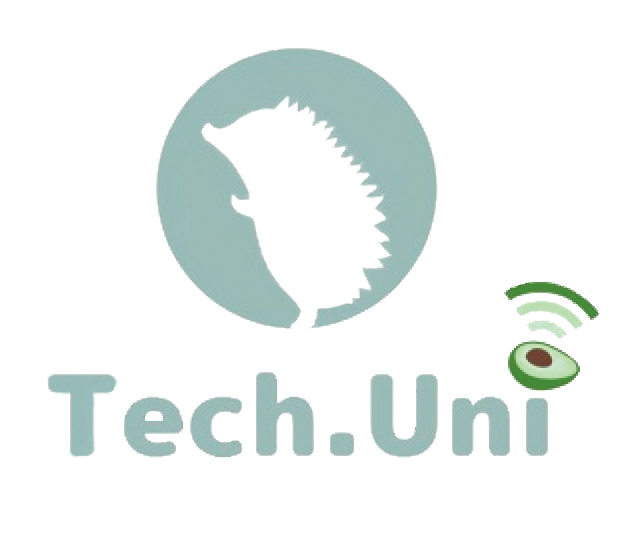
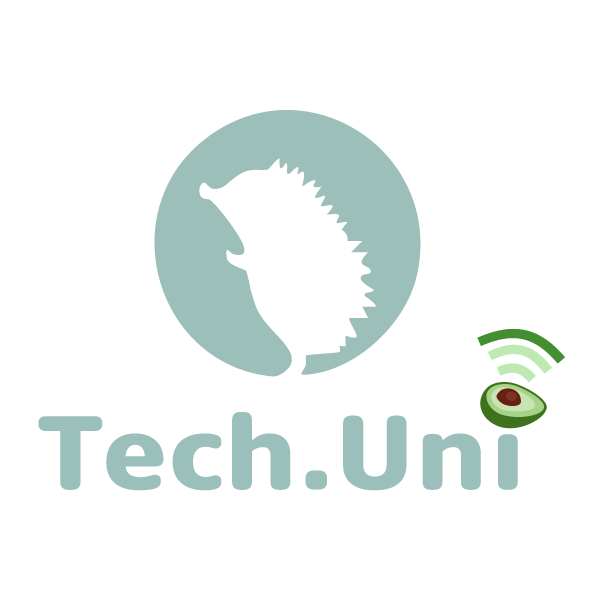
change: 画像差し替え

Changed region(s): [[0.24, 0.0625, 0.72, 0.625], [0.06, 0.5, 0.96, 0.8438], [0.24, 0.4375, 0.27, 0.4688]]

diff --git a/src/components/Home/Home2.jsx b/src/components/Home/Home2.jsx
@@ -39,7 +39,7 @@ function Home2() {
           </Col>
           <Col md={4} className="myAvtar" style={{minHeight: "560px"}}>
             <img
-              src="/assets/TechUni.png"
+              src="/assets/TechUni.svg"
               alt="home pic"
               className="img-fluid"
               style={{ height: "70%", objectFit: "contain"}}

diff --git a/src/components/About/About.jsx b/src/components/About/About.jsx
@@ -23,7 +23,7 @@ function About() {
             <tr>
               <td>ロゴ</td>
               <td><img
-                src="/assets/TechUni.png"
+                src="/assets/TechUni.svg"
                 alt="home pic"
                 className="img-fluid"
                 style={{ maxHeight: "150px" }}
